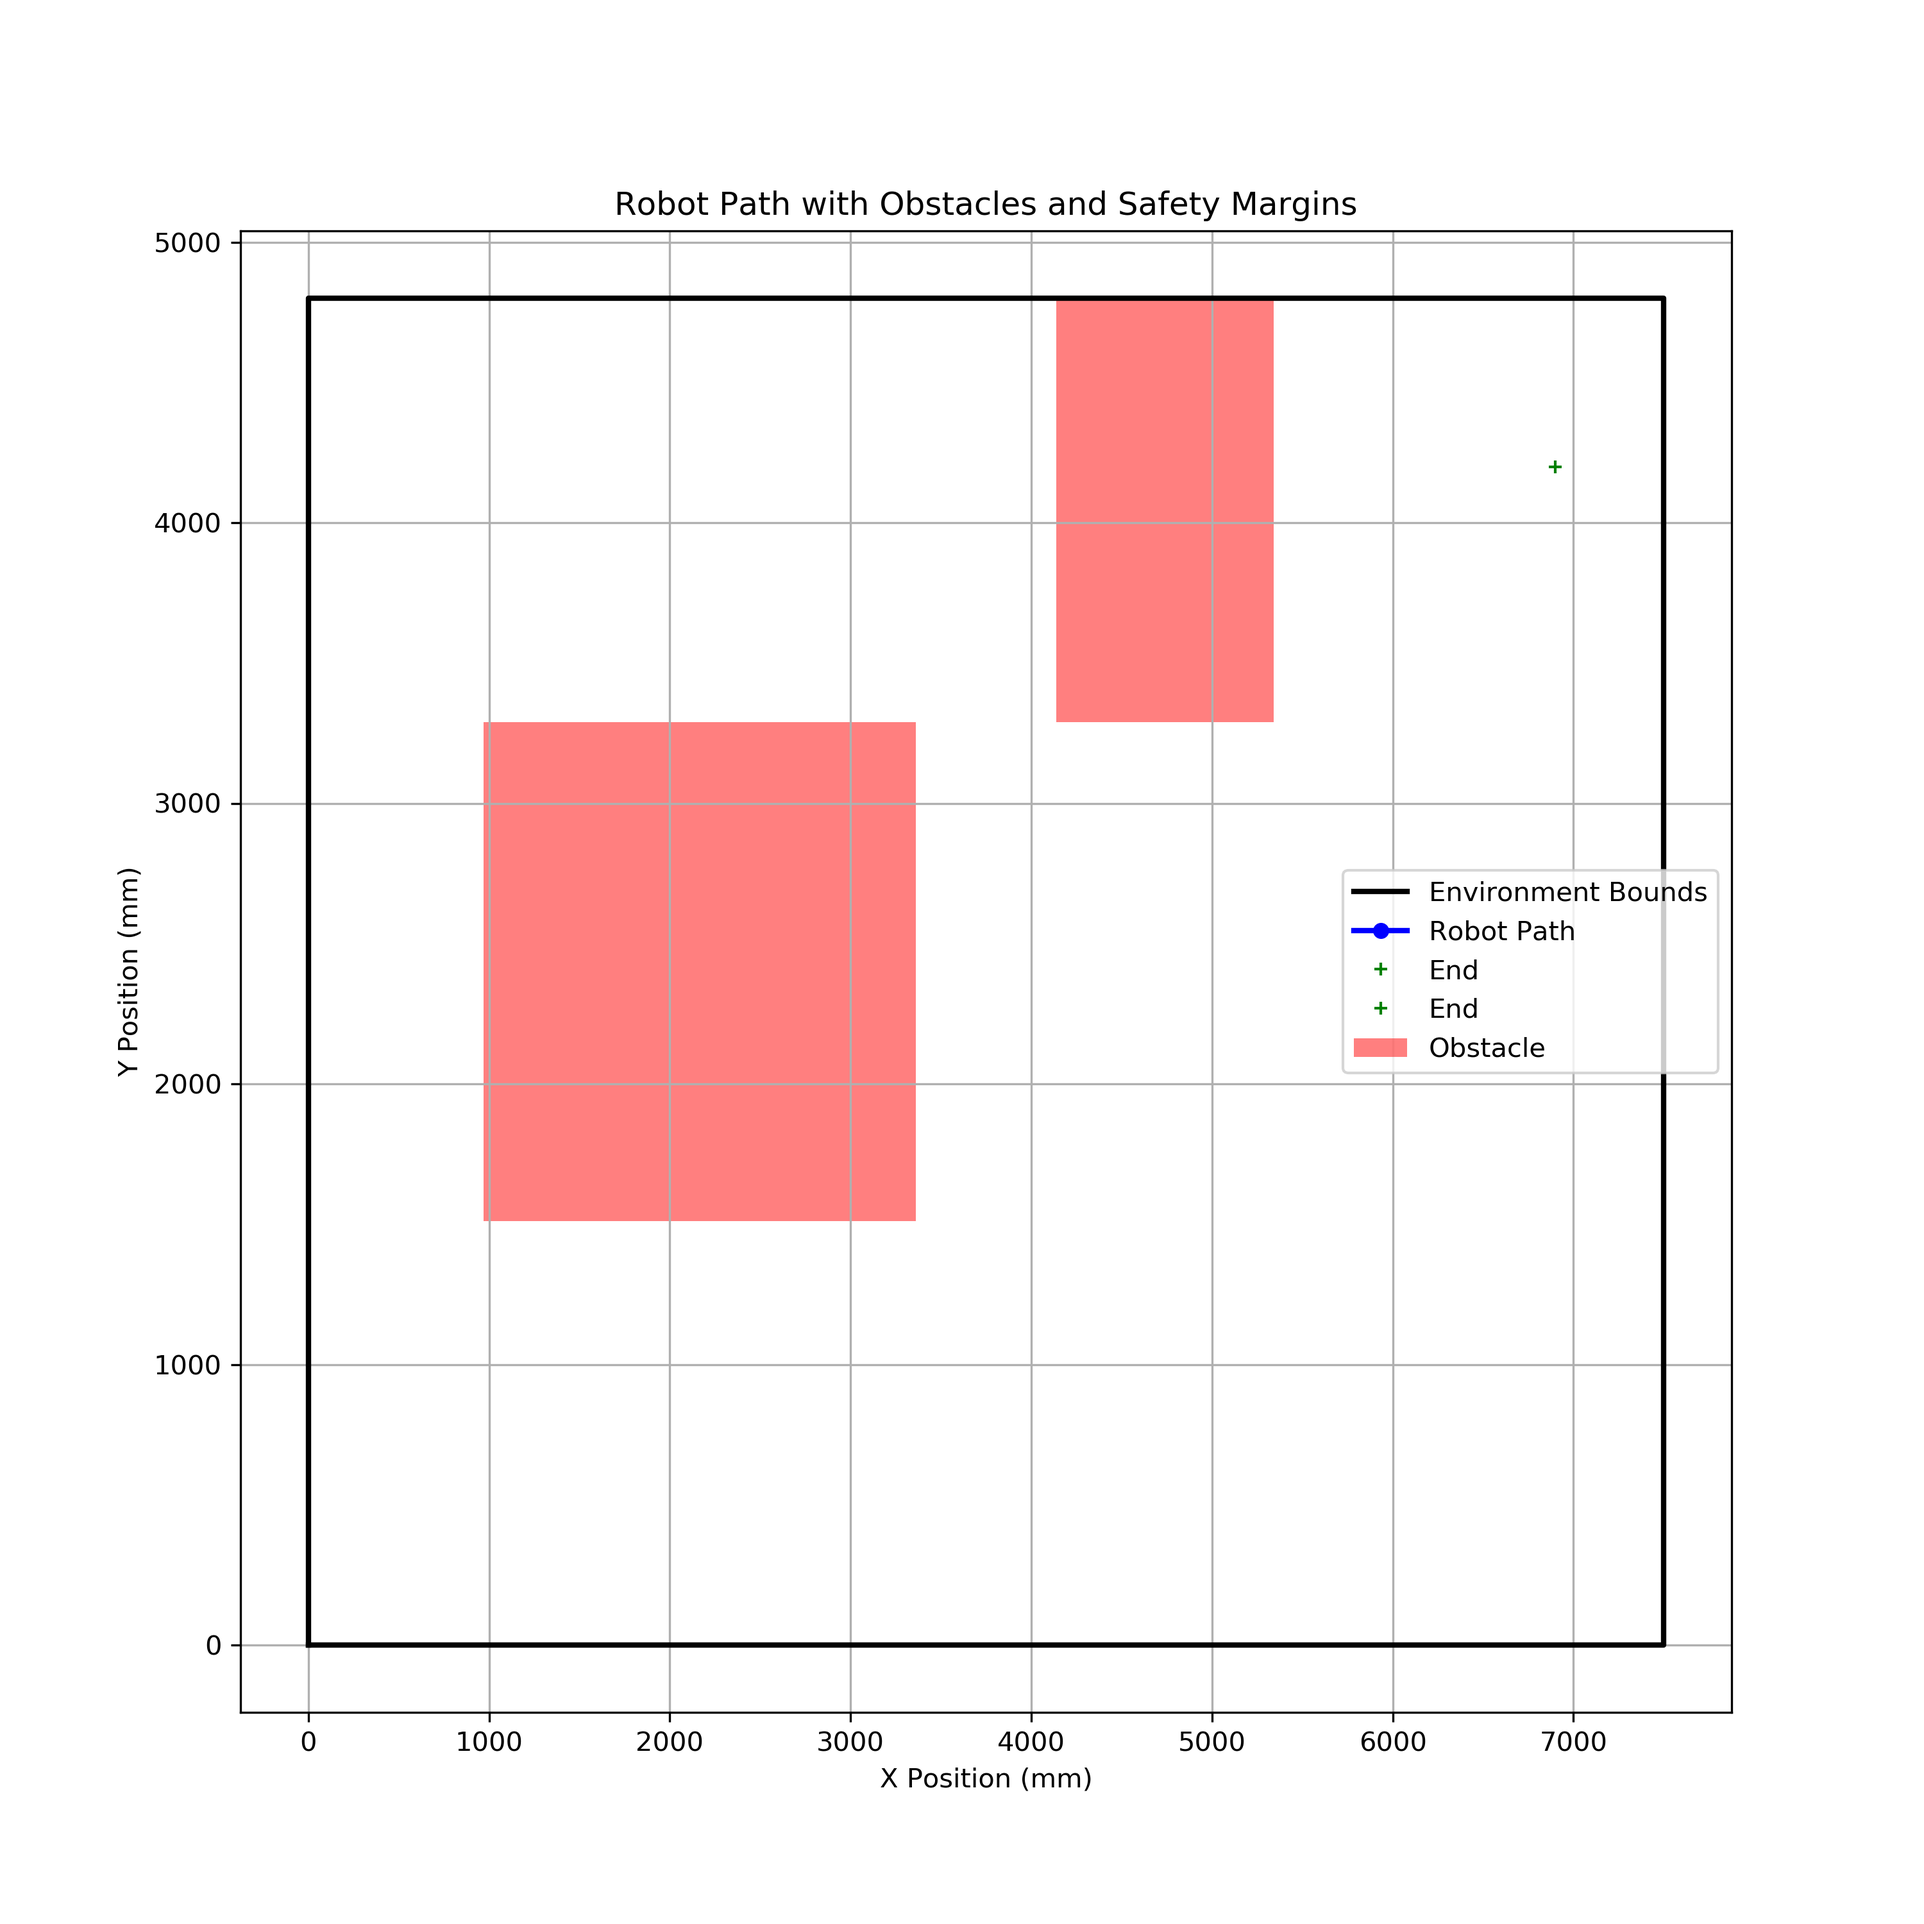
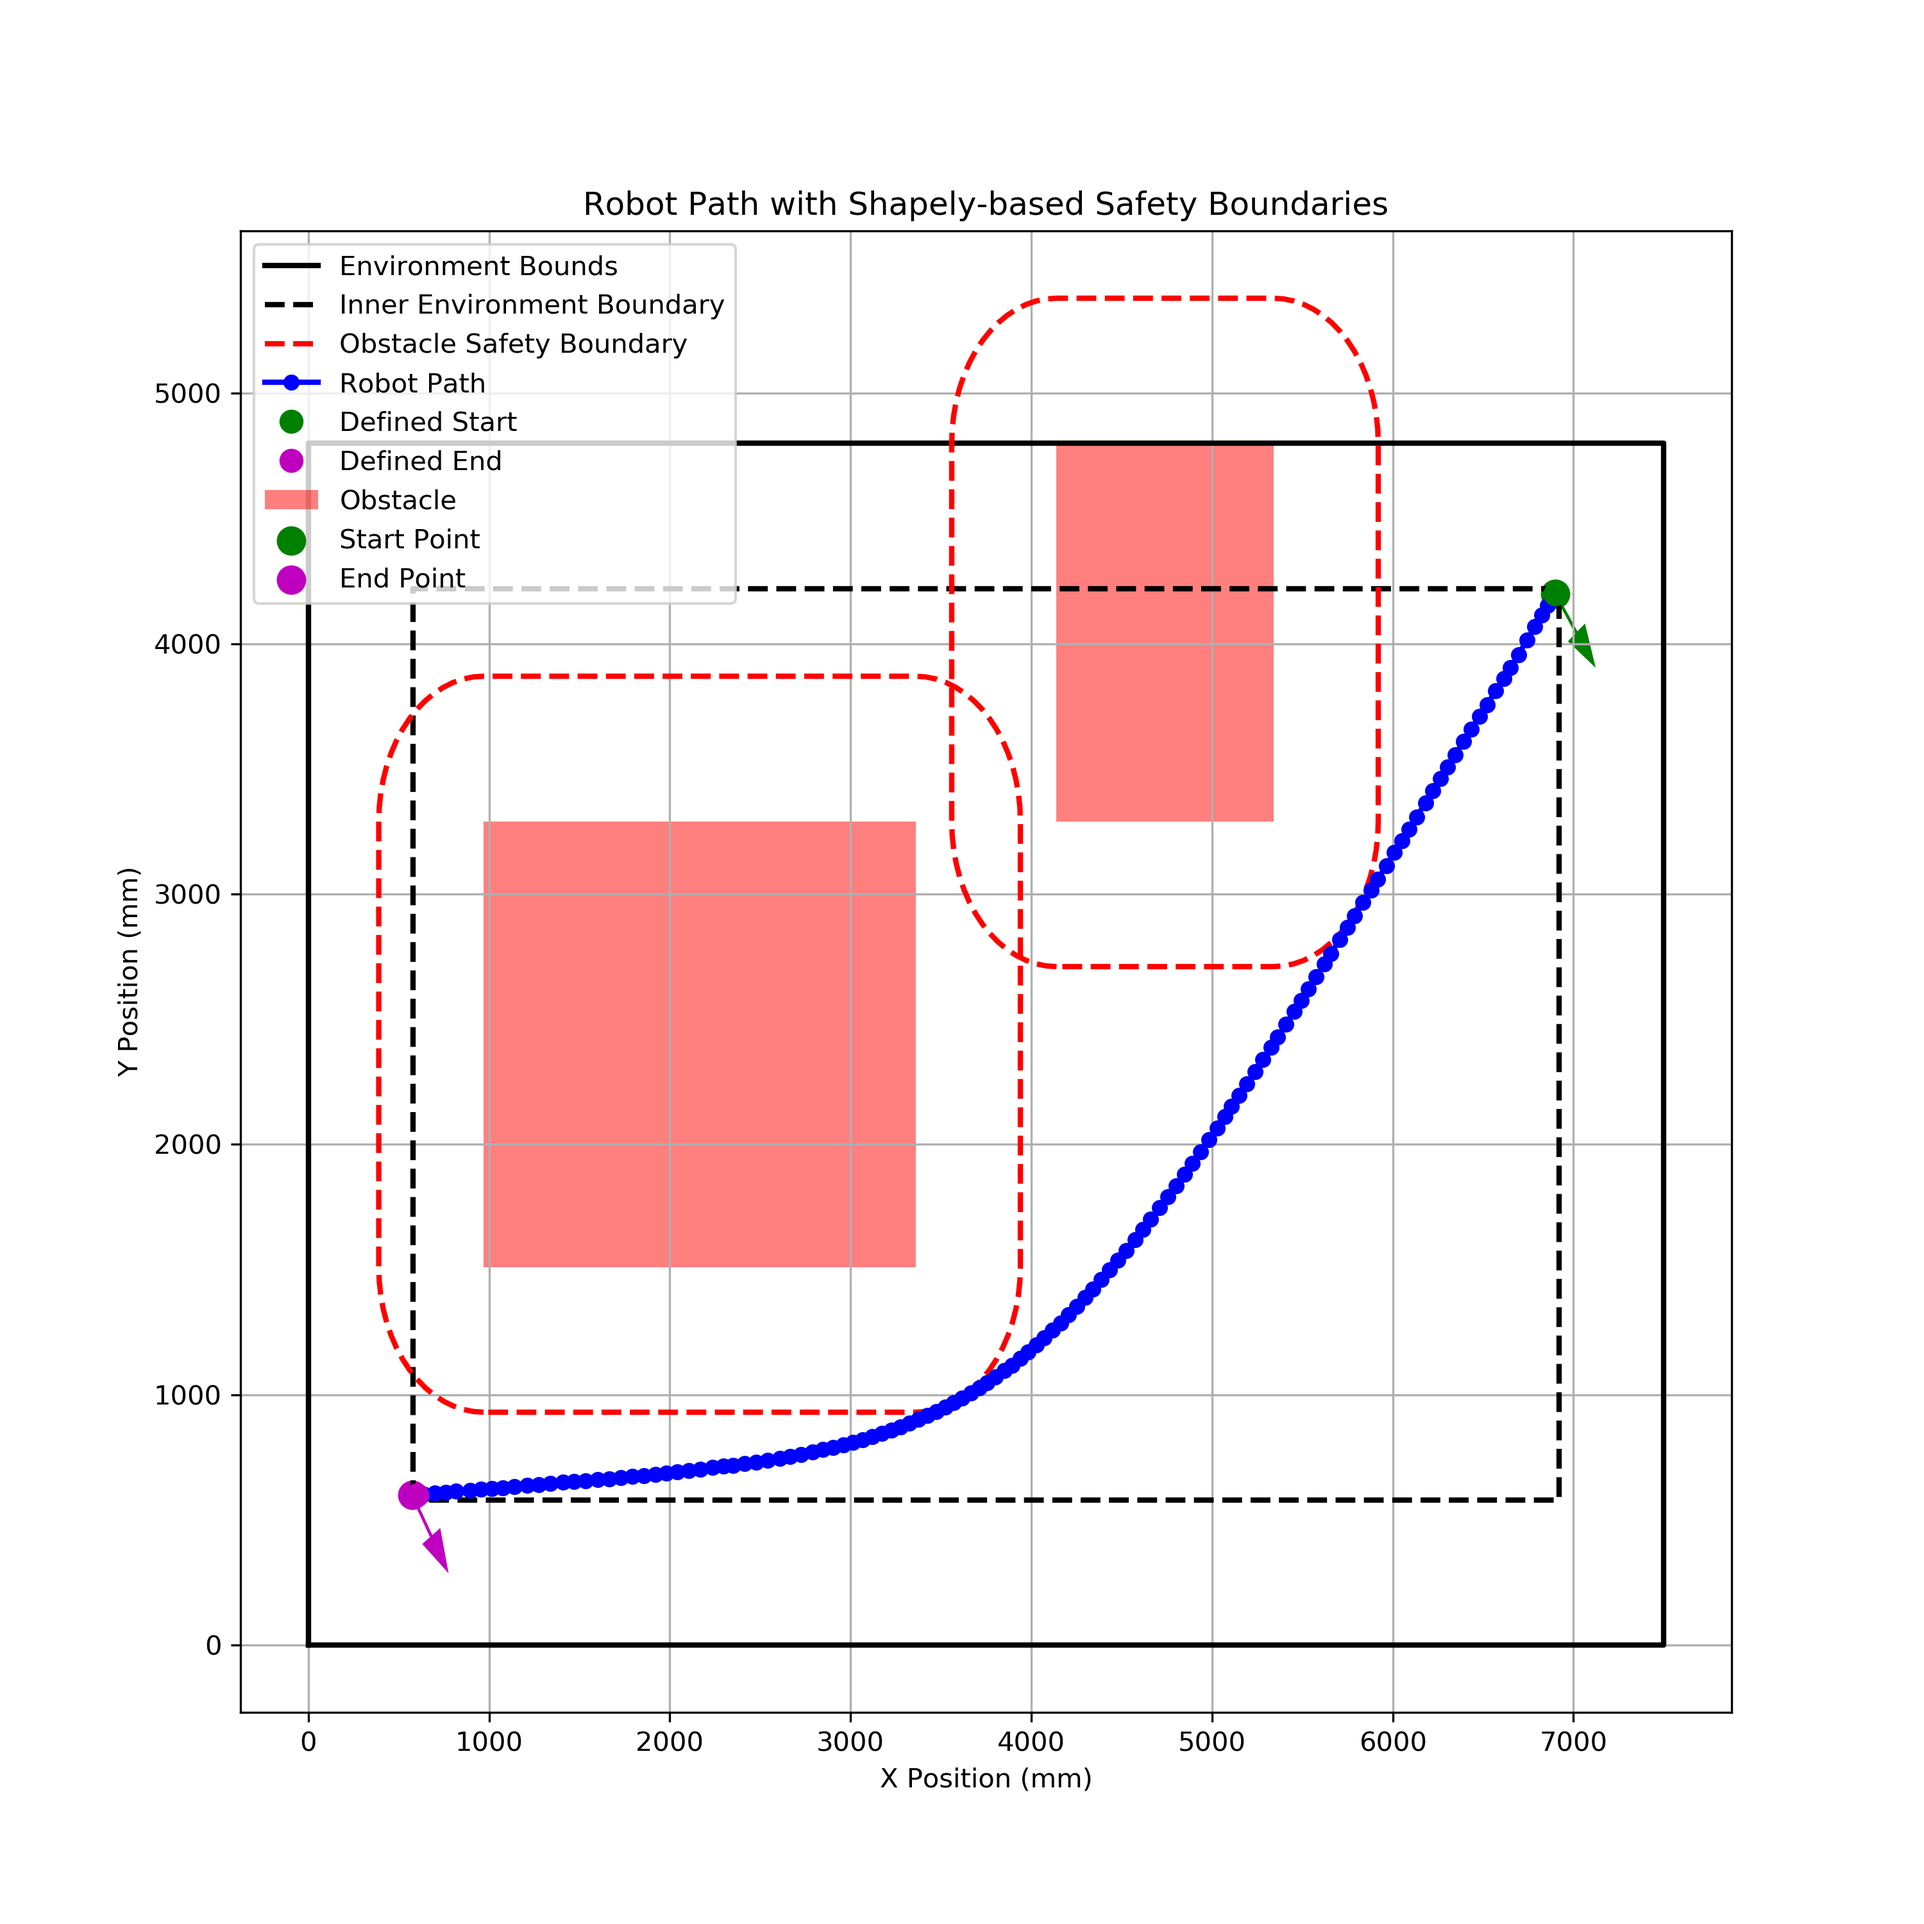
updates working code

diff --git a/src/control_stack/scripts/plot_path.py b/src/control_stack/scripts/plot_path.py
@@ -1,5 +1,4 @@
 #!/usr/bin/env python
-
 import rospy
 import os
 import matplotlib
@@ -7,21 +6,22 @@ matplotlib.use('Agg')  # No GUI required
 import matplotlib.pyplot as plt
 from nav_msgs.msg import Odometry
 import numpy as np
+from shapely.geometry import Polygon  # Import Shapely for geometric operations
 
 # -------------------------------
 # Parameters and Configurations
 # -------------------------------
 
-# Define environment bounds as list of (x, y) coordinates
+# Define environment bounds as list of (x, y) coordinates (in mm)
 bounds = [(0, 0), (0, 4800), (7500, 4800), (7500, 0)]
 
-# Define obstacles as polygons (list of (x, y) coordinates)
+# Define obstacles as polygons (list of (x, y) coordinates in mm)
 obstacles = [
     [(970, 1510), (970, 3290), (3360, 3290), (3360, 1510)],  # Obstacle 1
     [(4140, 3290), (4140, 4800), (5340, 4800), (5340, 3290)]  # Obstacle 2
 ]
 
-start = [6900,4200]
+start = [6900, 4200]
 end = [600, 600]
 
 # Define safety margin (in mm)
@@ -60,60 +60,73 @@ def check_cpp_node():
     global cpp_node_active
     try:
         cpp_node_active = bool(rospy.get_published_topics())  # If ROS master is running
-    except:
+    except Exception:
         cpp_node_active = False
 
 # -------------------------------
-# Utility Functions for Safety Margins
-# -------------------------------
-
-def shrink_polygon(polygon, margin):
-    """Shrinks a polygon by the given margin (used for inner boundary)."""
-    return [(x + margin if x > 0 else x - margin, 
-             y + margin if y > 0 else y - margin) for x, y in polygon]
-
-def expand_polygon(polygon, margin):
-    """Expands a polygon by the given margin (used for obstacle safety)."""
-    return [(x - margin if x > 0 else x + margin, 
-             y - margin if y > 0 else y + margin) for x, y in polygon]
-
-# -------------------------------
-# Plotting Function
+# Plotting Function Using Shapely
 # -------------------------------
 
 def plot_path():
-    """Plots the robot's path along with bounds, obstacles, and safety margins."""
+    """Plots the robot's path along with the environment bounds (inner boundary)
+       and obstacles (outer boundaries) using Shapely."""
     plt.figure(figsize=(10, 10))
 
-    # Plot environment bounds
-    bound_x, bound_y = zip(*bounds + [bounds[0]])  # Close the shape
-    plt.plot(bound_x, bound_y, 'k-', linewidth=2, label="Environment Bounds")
+    # --- Environment Bounds ---
+    # Create Shapely polygon for the environment bounds.
+    env_polygon = Polygon(bounds)
+    # Compute the inner safe boundary by applying a negative buffer.
+    inner_env_polygon = env_polygon.buffer(-safety_margin)
+    
+    # Plot original environment bounds (closed polygon)
+    x_env, y_env = env_polygon.exterior.xy
+    plt.plot(x_env, y_env, 'k-', linewidth=2, label="Environment Bounds")
+    
+    # Plot inner safe boundary if it exists (it may be empty if margin is too large)
+    if not inner_env_polygon.is_empty:
+        x_inner, y_inner = inner_env_polygon.exterior.xy
+        plt.plot(x_inner, y_inner, 'k--', linewidth=2, label="Inner Environment Boundary")
 
-    # Plot obstacles and their **external** safety margins (expanded version)
-    for obs in obstacles:
-        obs_x, obs_y = zip(*obs + [obs[0]])  # Close the shape
-        plt.fill(obs_x, obs_y, 'r', alpha=0.5, label="Obstacle" if obs == obstacles[0] else "")
+    # --- Obstacles ---
+    for idx, obs in enumerate(obstacles):
+        # Create Shapely polygon for the obstacle.
+        obs_polygon = Polygon(obs)
+        # Compute the outer safety boundary (expanded obstacle) by buffering.
+        outer_obs_polygon = obs_polygon.buffer(safety_margin)
+        
+        # Plot the original obstacle (filled polygon)
+        x_obs, y_obs = obs_polygon.exterior.xy
+        plt.fill(x_obs, y_obs, 'r', alpha=0.5, 
+                 label="Obstacle" if idx == 0 else None)
+        
+        # Plot the expanded (safety) boundary of the obstacle.
+        x_outer, y_outer = outer_obs_polygon.exterior.xy
+        plt.plot(x_outer, y_outer, 'r--', linewidth=2, 
+                 label="Obstacle Safety Boundary" if idx == 0 else None)
 
-
-    # Plot the robot's path
+    # --- Robot Path ---
     plt.plot(path_x, path_y, 'b-', linewidth=2, marker='o', markersize=5, label="Robot Path")
 
-    plt.plot(start[0],start[1], 'g+', linewidth=5, marker='+', markersize=5, label="End")
-    plt.plot(path_x, path_y, 'g+', linewidth=5, marker='+', markersize=5, label="End")
-
-    # Plot start and end points with orientation arrows
+    # Plot the start and end points
     if start_pose:
         plt.scatter(start_pose[0], start_pose[1], c='g', s=100, label="Start Point")
-        plt.arrow(start_pose[0], start_pose[1], np.cos(start_pose[2]) * 200, np.sin(start_pose[2]) * 200, head_width=100, head_length=150, fc='g', ec='g')
-
+        plt.arrow(start_pose[0], start_pose[1],
+                  np.cos(start_pose[2]) * 200, np.sin(start_pose[2]) * 200,
+                  head_width=100, head_length=150, fc='g', ec='g')
     if end_pose:
         plt.scatter(end_pose[0], end_pose[1], c='m', s=100, label="End Point")
-        plt.arrow(end_pose[0], end_pose[1], np.cos(end_pose[2]) * 200, np.sin(end_pose[2]) * 200, head_width=100, head_length=150, fc='m', ec='m')
+        plt.arrow(end_pose[0], end_pose[1],
+                  np.cos(end_pose[2]) * 200, np.sin(end_pose[2]) * 200,
+                  head_width=100, head_length=150, fc='m', ec='m')
 
-    # Set labels and grid
+    # Optionally, also plot the raw start and end positions from the defined lists.
+    plt.plot(start[0], start[1], 'go', markersize=8, label="Defined Start")
+    plt.plot(end[0], end[1], 'mo', markersize=8, label="Defined End")
+
+    # Set labels, title, legend, and grid
     plt.xlabel("X Position (mm)")
     plt.ylabel("Y Position (mm)")
-    plt.title("Robot Path with Obstacles and Safety Margins")
+    plt.title("Robot Path with Shapely-based Safety Boundaries")
     plt.legend()
     plt.grid(True)
 

diff --git a/src/control_stack/src/main.cpp b/src/control_stack/src/main.cpp
@@ -26,10 +26,10 @@ using namespace std;
 #define DISTANCE_PER_TICK_IN_MM  ((M_PI * DEFAULT_WHEEL_DIAMETER_MM) / (DEFAULT_ENCODER_TICKS))
 
 // Controller threshold: if the robot is within this distance of the target, advance to the next target.
-#define DIST_THRESHOLD   (50.0)  // mm
+#define DIST_THRESHOLD   (500.0)  // mm
 
 // t_increment for advancing the Bézier parameter t.
-#define T_INC       (0.04)
+#define T_INC       (0.01)
 
 //---------------------------------------------------------
 // Data Structures
@@ -41,10 +41,10 @@ struct Point {
 
 // Bézier curve control points (in mm)
 vector<Point> controlPoints = {
-    {6900, 4200},         // Start
-    {3764.62, 566.36},  // Control point 1
-    {4182.76, 822.74},  // Control point 2
-    {600, 600}         // End
+    {600,600},         // Start
+    {5757.69, 306.81},  // Control point 1
+    {6885.99, 4311.8},  // Control point 2
+    {6900, 4200}         // End
 };
 
 //---------------------------------------------------------
@@ -192,7 +192,7 @@ void followBezierCurve(lib0xRobotCpp &robot, void* hSerial, double distancePerTi
     ros::Publisher odom_pub = nh.advertise<nav_msgs::Odometry>("odom", 50);
     tf::TransformBroadcaster odom_broadcaster;
     
-    while (t <= 1.0 && ros::ok())
+    while (t <= (1+(5*T_INC)) && ros::ok())
     {
         // Compute the current Bézier point (P1) at parameter t.
         Point P1 = computeBezierPoint(t, controlPoints);
